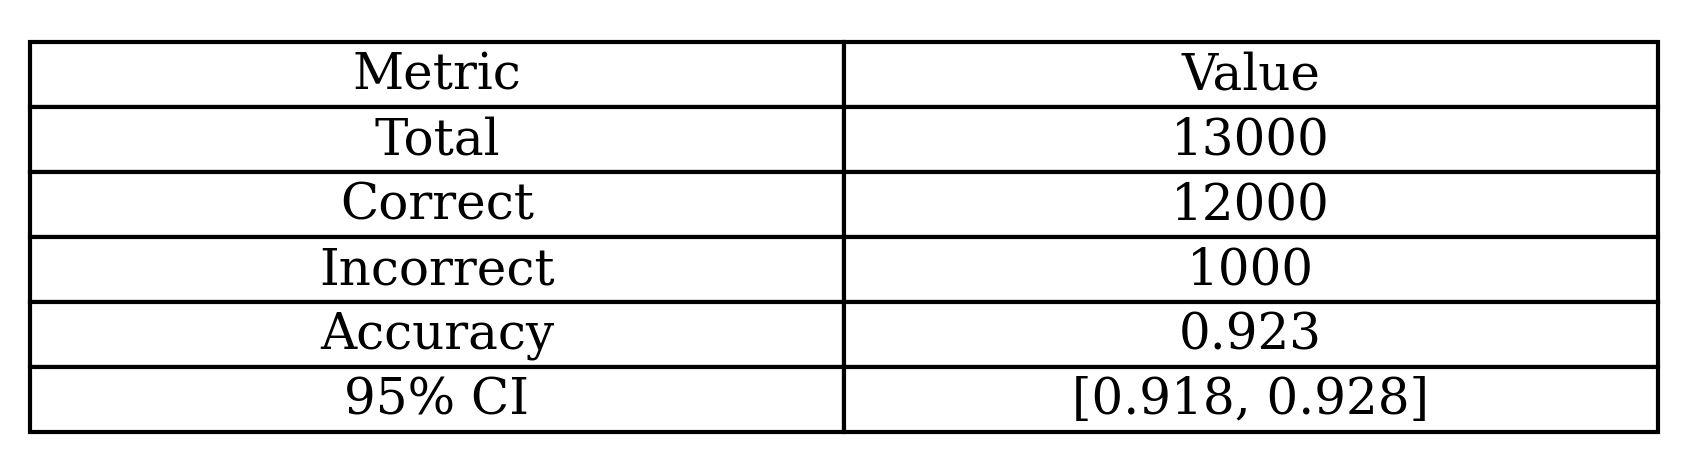
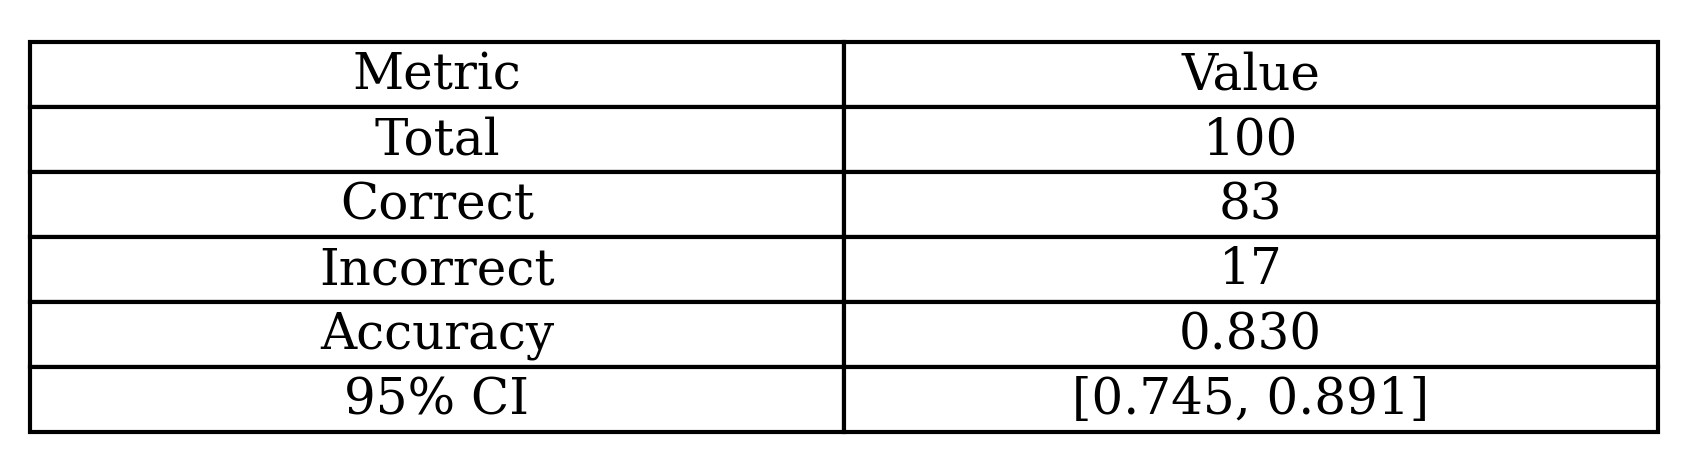
pipeline plots completed

diff --git a/analyzeResults.py b/analyzeResults.py
@@ -4,10 +4,10 @@ import numpy as np
 from scipy.stats import norm
 import os
 
-USECASE = "UV Robot Use Case"
-TEMP = "0"
-csv_file = "results/100+IterationResults/20251128192047_ptLTL_results.csv"
-ITERAITIONS = "1000"
+USECASE = "Lifted ptLTL Pair Testing"
+TEMP = "1"
+csv_file = "results/100+IterationResults/20251202145558_ptLTL_results_1.csv"
+ITERAITIONS = "100"
 
 # ----------------------------
 # Wilson Score Confidence Interval

diff --git a/pipeline.py b/pipeline.py
@@ -3,7 +3,7 @@ import csvHandler
 import nuXmvHandler
 
 MODEL = "gpt-5-chat-latest"
-NUM_ITERATIONS = 1000
+NUM_ITERATIONS = 100
 TEMPERATURE = 1
 EQUIVALENCE_HANDLER = nuXmvHandler.check_equivalence_pipeline
 
